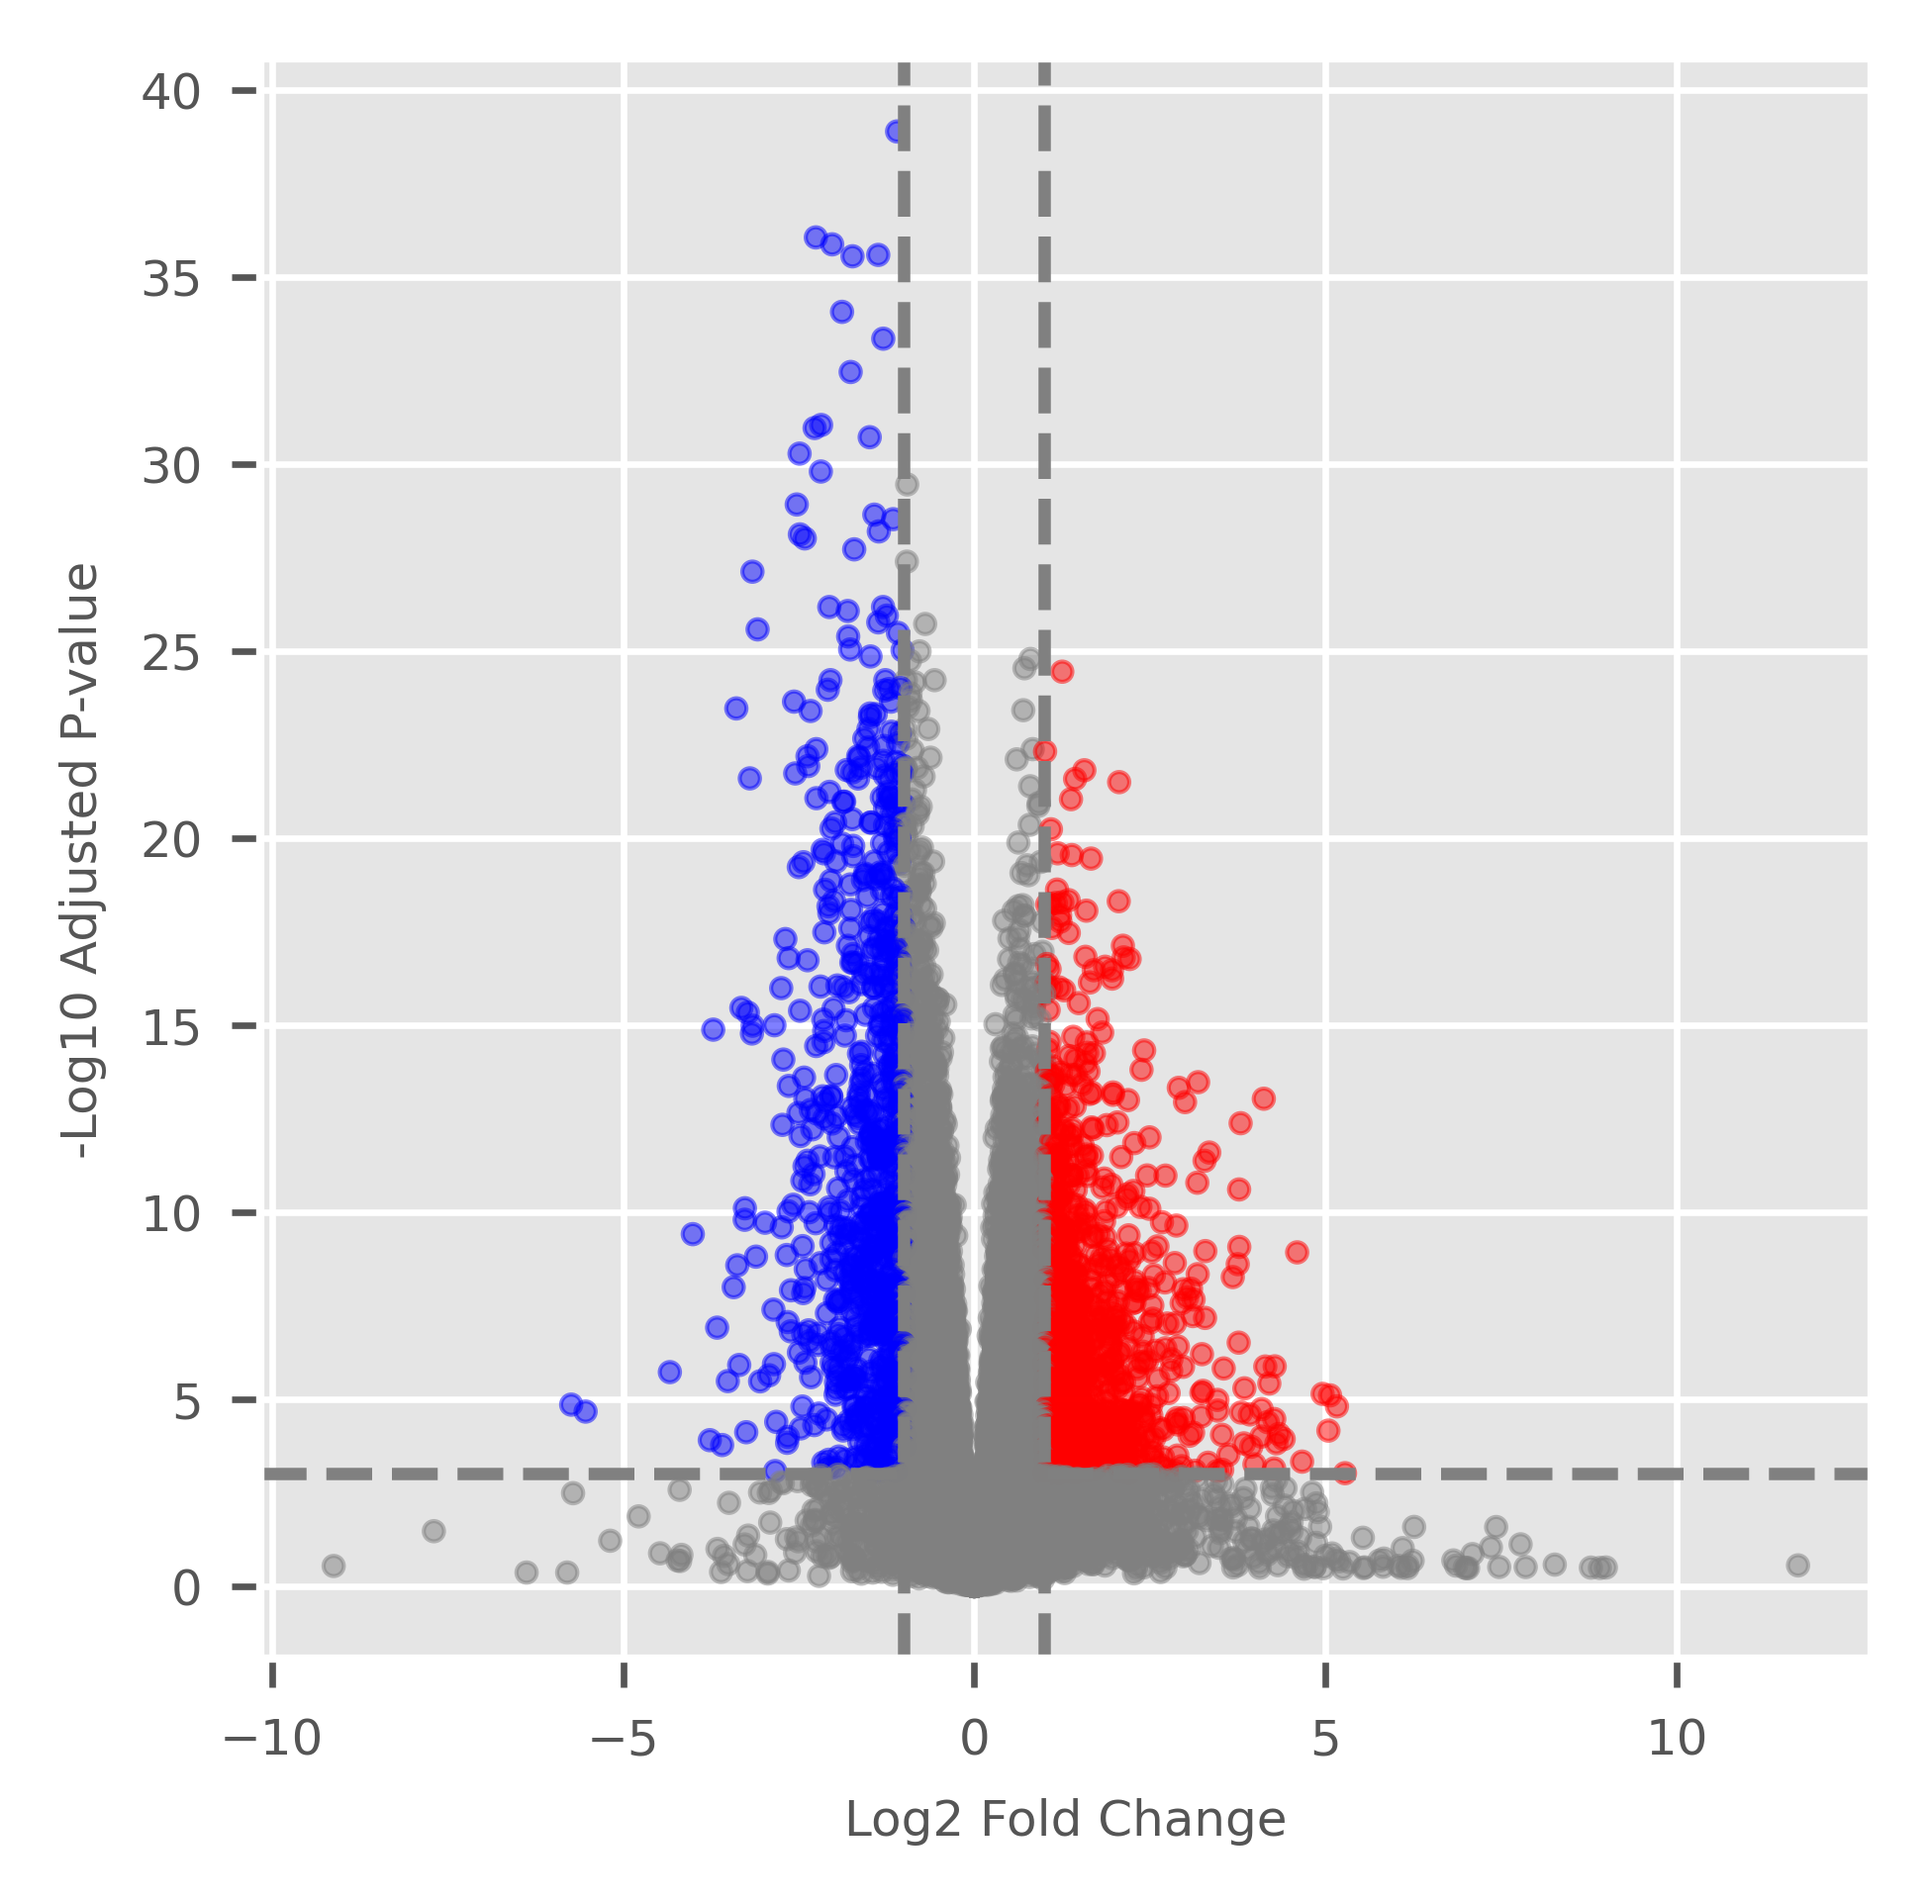
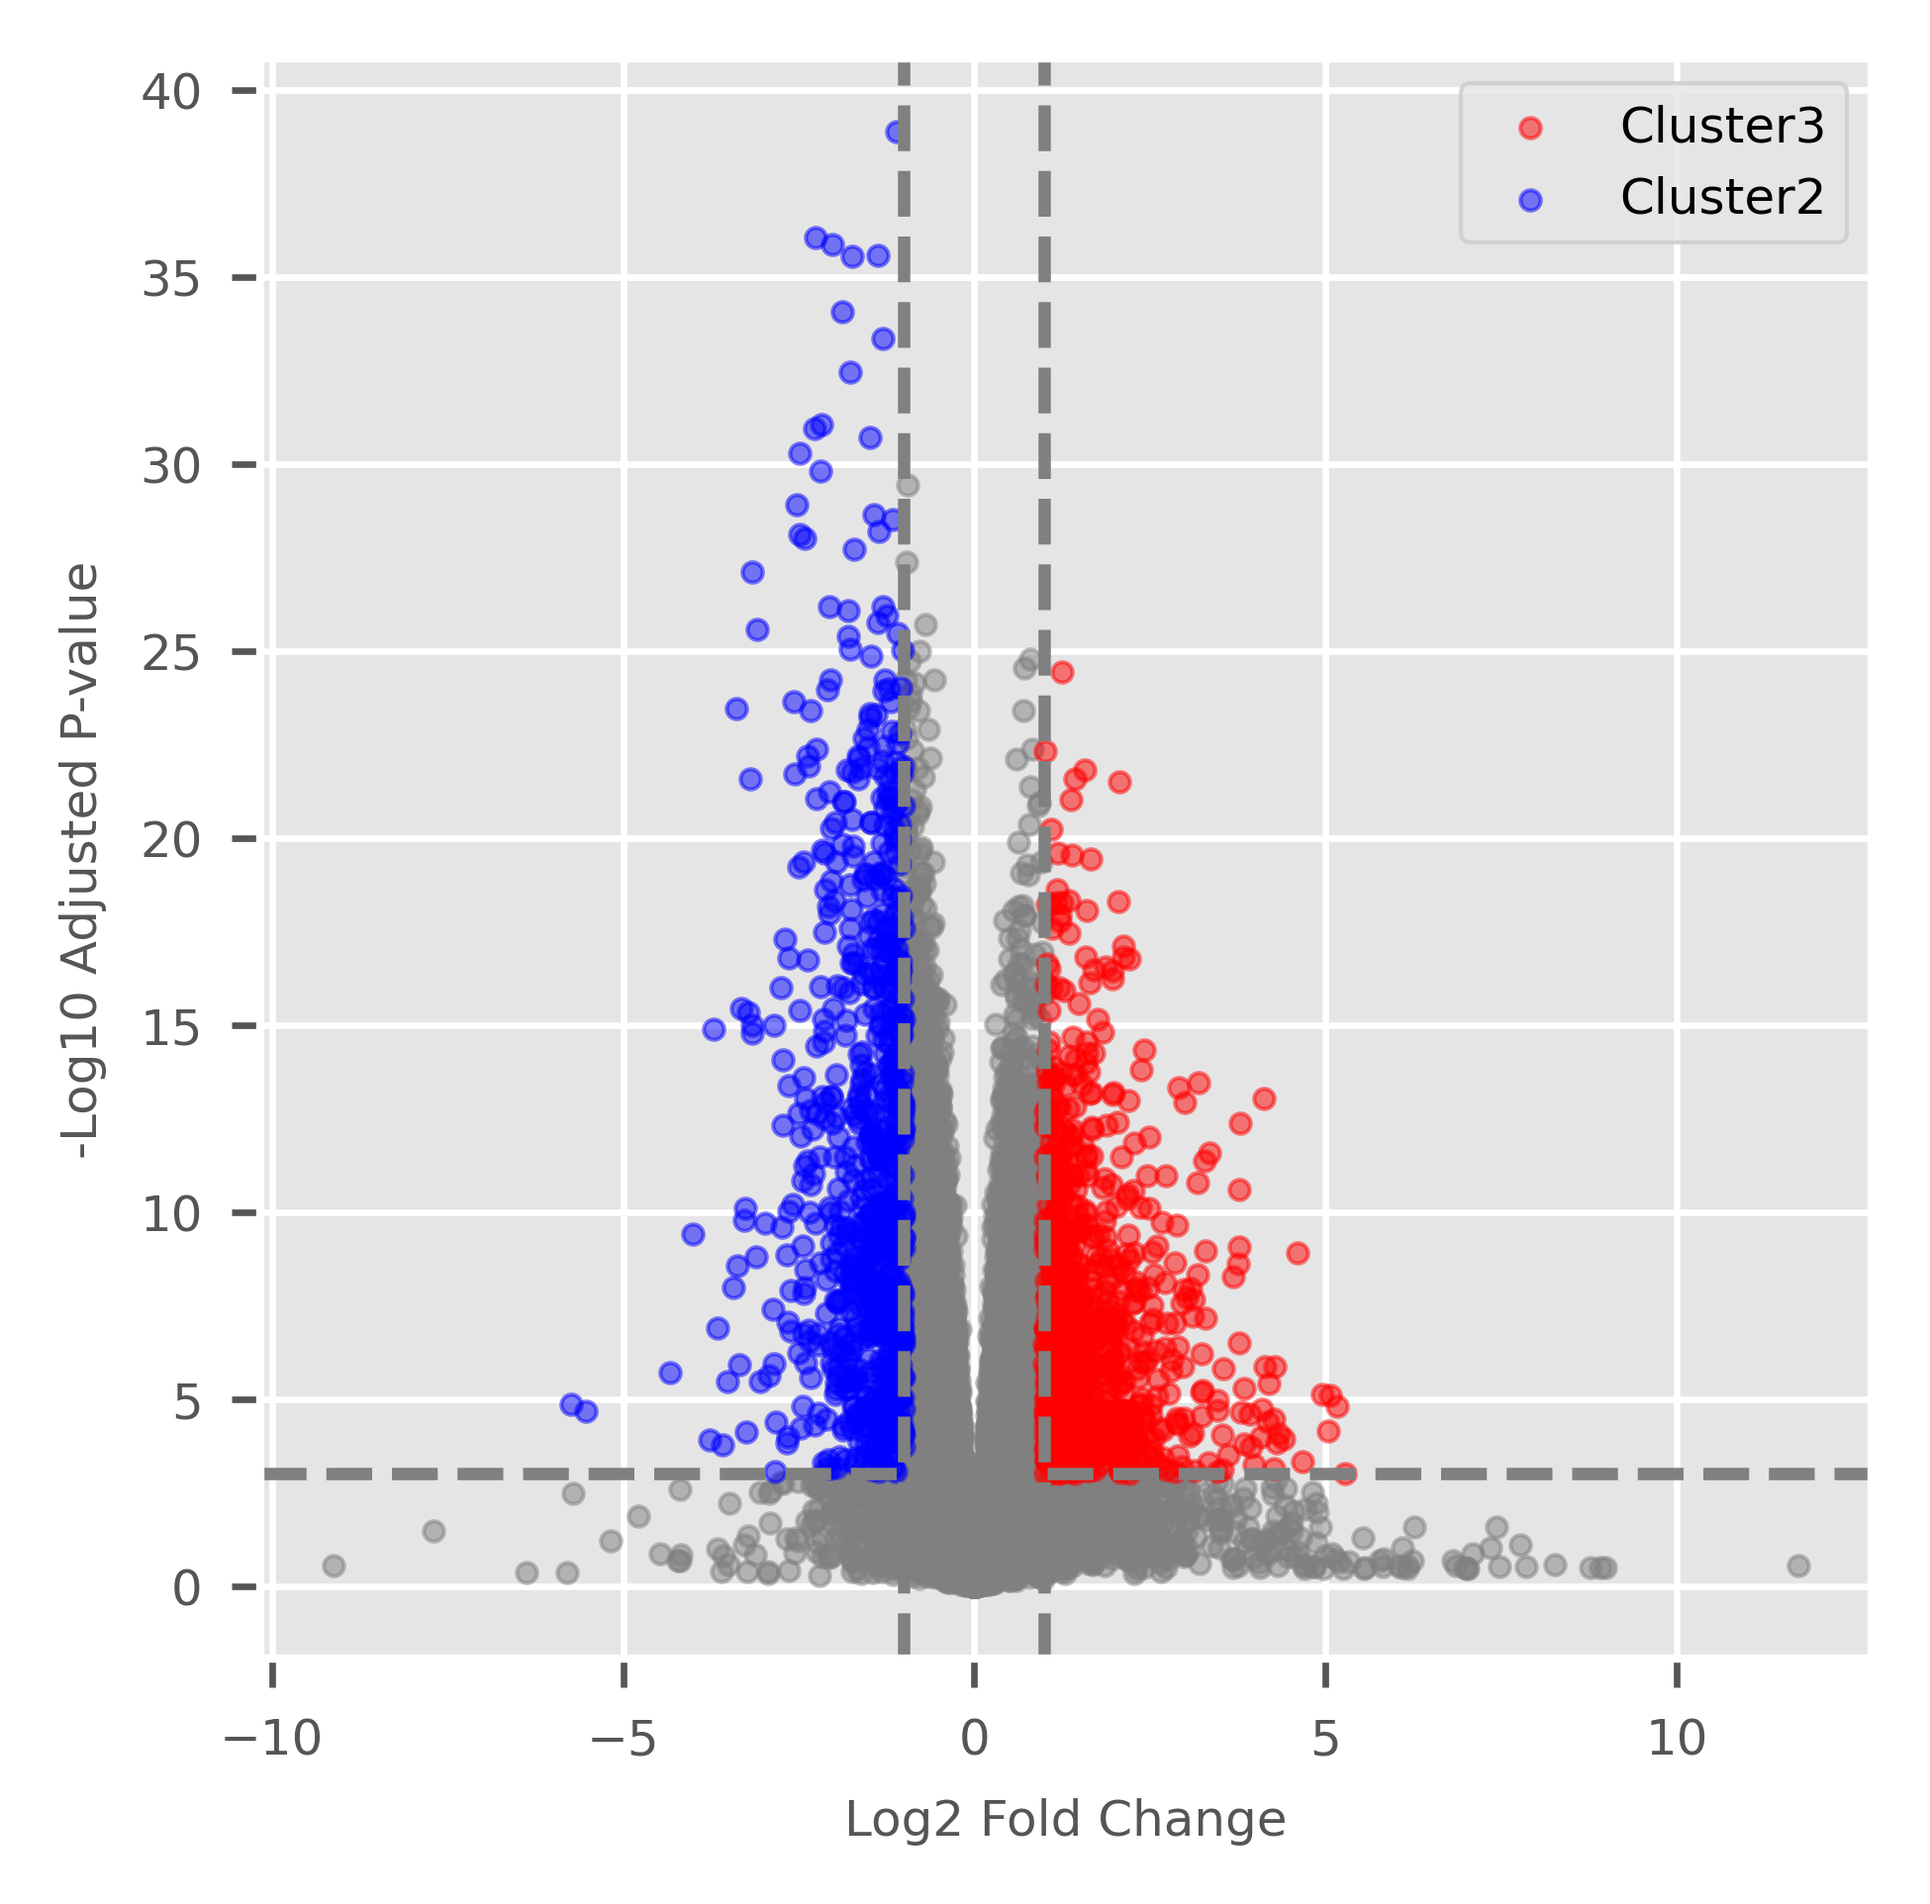
ssGSEA

diff --git a/DEA.py b/DEA.py
@@ -7,12 +7,6 @@ deg_multiple_test_correction = 'fdr_bh'
 deg_log2_fc_threshold = 1
 deg_p_value_threshold = 0.001
 
-count_plot_generate = False
-count_plot_format = 'png'
-count_plot_size = (3.5, 3.5)
-count_plot_dpi = 600
-count_plot_fontsize = 6
-
 volcano_plot_format = 'png'
 volcano_plot_size = (3.5, 3.5)
 volcano_plot_dpi = 600
@@ -39,7 +33,9 @@ heatmap_dpi = 600
 heatmap_color = 'seismic'
 heatmap_fontsize = 6
 heatmap_gene_metric = 'correlation'
+heatmap_case_metric = 'seuclidean'
 heatmap_gene_method = 'ward'
+heatmap_case_method = 'ward'
 
 # -------------------------
 
@@ -56,49 +52,6 @@ from scipy.spatial.distance import pdist
 from sklearn.preprocessing import StandardScaler
 from matplotlib.patches import Rectangle
 
-def generate_count_plot(metadata, group_column, group1, group2, output_dir):
-    print("[Count Plot] ...                 ", end='\r')
-
-    # Combined group
-    filtered_metadata = metadata[metadata[group_column].isin(group1 + group2)].copy()
-    filtered_metadata['Group'] = filtered_metadata[group_column].apply(
-        lambda x: '+'.join(group1) if x in group1 else '+'.join(group2)
-    )
-    
-    # Iterate group columns
-    for col in metadata.columns:
-        if col != group_column and col != 'Group':
-            unique_values = filtered_metadata[col].nunique()
-            if unique_values >=2 and unique_values <= 10:
-                # Chi-square test
-                contingency_table = pd.crosstab(filtered_metadata['Group'], filtered_metadata[col])
-                p_value = "None"
-                if (contingency_table > 0).all().all():
-                    chi2, p_value = stats.chi2_contingency(contingency_table)[:2]
-                    if p_value < 0.001:
-                        p_value = f'{p_value:.2e}'
-                    else:
-                        p_value = f'{p_value:.3f}'
-
-                # Count plot
-                plt.style.use('ggplot')
-                plt.figure(figsize=count_plot_size)
-                sns.countplot(data=filtered_metadata, x='Group', hue=col)
-
-                plt.xticks(fontsize=count_plot_fontsize)
-                plt.yticks(fontsize=count_plot_fontsize)
-                plt.xlabel('Group', fontsize=count_plot_fontsize)
-                plt.ylabel('Count', fontsize=count_plot_fontsize)
-                plt.legend(fontsize=count_plot_fontsize)
-
-                count_plot_file = os.path.join(output_dir, f'DEA_count_{"+".join(group1)}_vs_{"+".join(group2)}_{col}.' + count_plot_format)
-                plt.savefig(count_plot_file, format=count_plot_format, dpi=count_plot_dpi, bbox_inches='tight')
-                plt.close()
-
-                print(f"[Chi-Square] Group / {col}: {p_value}                 ")
-    
-    print("[Count Plot] Complete                 ")
-
 def generate_volcano_plot(results_df, group1, group2, output_dir, log2_fc_threshold, p_value_threshold):
     print("[Volcano Plot] ...                 ", end='\r')
 
@@ -110,7 +63,31 @@ def generate_volcano_plot(results_df, group1, group2, output_dir, log2_fc_thresh
     # Volcano plot
     plt.style.use('ggplot')
     plt.figure(figsize=volcano_plot_size)
-    plt.scatter(results_df['log2_fold_change'], -np.log10(results_df['adjusted_pvalue']), c=results_df['color'], alpha=volcano_plot_dotalpha, s=volcano_plot_dotsize)
+    
+    # Non-significant points
+    mask = results_df['color'] == volcano_plot_other_color
+    plt.scatter(
+        results_df.loc[mask, 'log2_fold_change'],
+        -np.log10(results_df.loc[mask, 'adjusted_pvalue']),
+        c=volcano_plot_other_color,
+        alpha=volcano_plot_dotalpha,
+        s=volcano_plot_dotsize
+    )
+    
+    # Significant points
+    for color, label in [
+        (volcano_plot_up_color, "+".join(group2)),
+        (volcano_plot_down_color, "+".join(group1))
+    ]:
+        mask = results_df['color'] == color
+        plt.scatter(
+            results_df.loc[mask, 'log2_fold_change'],
+            -np.log10(results_df.loc[mask, 'adjusted_pvalue']),
+            c=color,
+            alpha=volcano_plot_dotalpha,
+            s=volcano_plot_dotsize,
+            label=label
+        )
     
     if volcano_plot_line == True:
         plt.axvline(x=log2_fc_threshold, color=volcano_plot_other_color, linestyle='--')
@@ -121,6 +98,7 @@ def generate_volcano_plot(results_df, group1, group2, output_dir, log2_fc_thresh
     plt.yticks(fontsize=volcano_plot_fontsize)
     plt.xlabel('Log2 Fold Change', fontsize=volcano_plot_fontsize)
     plt.ylabel('-Log10 Adjusted P-value', fontsize=volcano_plot_fontsize)
+    plt.legend(fontsize=volcano_plot_fontsize, loc='best')
     
     volcano_file = os.path.join(output_dir, f'DEA_volcano_{"+".join(group1)}_vs_{"+".join(group2)}.' + volcano_plot_format)
     plt.savefig(volcano_file, format=volcano_plot_format, dpi=volcano_plot_dpi, bbox_inches='tight')
@@ -209,8 +187,8 @@ def generate_heatmap(results_df, expression_data, metadata, group_column, group1
     for group in [group1, group2]:
         group_data = selected_gene_data[filtered_metadata[group_column].isin(group)]
         if len(group_data) > 1:
-            group_dist = pdist(group_data, metric='correlation')
-            group_linkage = hierarchy.linkage(group_dist, method='ward')
+            group_dist = pdist(group_data, metric=heatmap_case_metric)
+            group_linkage = hierarchy.linkage(group_dist, method=heatmap_case_method)
             group_order.extend(group_data.index[hierarchy.leaves_list(group_linkage)])
         else:
             group_order.extend(group_data.index)
@@ -372,10 +350,6 @@ def DEA(summarize_file, group_column, group1, group2):
     print(f"[Save Genes] Complete                 ")
 
     print("[Create Plots] ...", end='\r')
-
-    # Count plot
-    if count_plot_generate == True:
-        generate_count_plot(metadata, group_column, group1, group2, output_dir)
     
     # Volcano plot
     generate_volcano_plot(results_df, group1, group2, output_dir, log2_fc_threshold, p_value_threshold)

diff --git a/ssGSEA.py b/ssGSEA.py
@@ -1,0 +1,122 @@
+# -------------------------
+
+geneset_prefix_remove = 'HALLMARK_'
+geneset_combine_mode = 'add'
+ssGSEA_weight = 0.75
+
+# -------------------------
+
+import sys
+import os
+import pandas as pd
+import numpy as np
+
+def calculate_ssGSEA_score(expression_values, gene_set, weight=ssGSEA_weight):
+    gene_names = expression_values.index
+    n_rows = len(gene_names)
+    
+    # Sort the genes
+    gene_list = np.argsort(-expression_values.values, kind='stable')
+    
+    # Find matching genes 
+    gene_set2 = np.where(np.isin(gene_names, gene_set))[0]
+    
+    # Z values normalization
+    if weight == 0:
+        ranked_expression = np.ones(n_rows)
+    else:
+        x = expression_values[gene_list]
+        ranked_expression = (x - np.mean(x)) / np.std(x, ddof=1)
+    
+    # Calculate tag indicator
+    tag_indicator = np.sign(np.isin(gene_list, gene_set2).astype(int))
+    N = len(gene_list)
+    Nh = len(gene_set2)
+    Nm = N - Nh
+    ind = np.where(tag_indicator == 1)[0]
+    ranked_expression = np.abs(ranked_expression[ind]) ** weight 
+
+    # Calculate up and down
+    sum_ranked_expression = np.sum(ranked_expression)
+    up = ranked_expression / sum_ranked_expression
+    gaps = np.append(ind-1, N-1) - np.append(-1, ind)
+    down = gaps / Nm
+    
+    # Calculate running sum
+    RES = np.cumsum(np.append(up, up[Nh-1]) - down)
+    valleys = RES[:Nh] - up
+    
+    # Calculate final ES
+    gaps = gaps + 1
+    RES = np.append(valleys, 0) * gaps + 0.5 * (np.append(0, RES[:Nh]) - np.append(valleys, 0)) * gaps
+    ES = np.sum(RES)
+    
+    return ES
+
+def ssGSEA(summarize_file, gmt_file):
+    # Read data
+    print("[Read Data] ...", end='\r')
+    df = pd.read_csv(summarize_file, low_memory=False)
+    start_gene_index = df.columns.get_loc('START_GENE')
+    metadata = df.iloc[:, :start_gene_index + 1]
+    gene_data = df.iloc[:, start_gene_index + 1:]
+    print("[Read Data] Complete                 ")
+    
+    # Read gene sets
+    print("[Load GeneSets] ...", end='\r')
+    gene_sets = {}
+    with open(gmt_file, 'r') as f:
+        for line in f:
+            parts = line.strip().split()
+            gene_set_name = parts[0]
+            if gene_set_name.startswith(geneset_prefix_remove):
+                gene_set_name = gene_set_name[len(geneset_prefix_remove):]
+            genes = list(parts[2:])
+            gene_sets[gene_set_name] = genes
+    print(f"[Load GeneSets] {len(gene_sets)}                 ")
+    
+    # Calculate enrichment scores
+    print("[Perform ssGSEA] ...", end='\r')
+    enrichment_scores = pd.DataFrame(index=df.index, columns=gene_sets.keys())
+    
+    total_samples = len(df)
+    for idx, sample in enumerate(df.index, 1):
+        sample_expression = gene_data.loc[sample]
+        
+        for gene_set_name, gene_set in gene_sets.items():
+            score = calculate_ssGSEA_score(sample_expression, gene_set)
+            enrichment_scores.loc[sample, gene_set_name] = score
+            
+        print(f"[Perform ssGSEA] {idx}/{total_samples}", end='\r')
+    
+    print("[Perform ssGSEA] Complete                 ")
+
+    # Combine UP/DN
+    if geneset_combine_mode in ["add", "replace"]:
+        print("[Combine UP/DN] ...", end='\r')
+        dn_columns = [col for col in enrichment_scores.columns if col.endswith('_DN')]
+        for dn_col in dn_columns:
+            up_col = dn_col.replace('_DN', '_UP')
+            if up_col in enrichment_scores.columns:
+                base_name = dn_col.replace('_DN', '')
+                combined_score = enrichment_scores[up_col] - enrichment_scores[dn_col]
+                dn_idx = enrichment_scores.columns.get_loc(dn_col)
+                enrichment_scores.insert(dn_idx + 1, base_name, combined_score)
+                if geneset_combine_mode == "replace":
+                    enrichment_scores = enrichment_scores.drop(columns=[up_col, dn_col])
+                print(f"[Combine UP/DN] {base_name}                 ")
+
+    # Save results
+    print("[Save Results] ...", end='\r')
+    result = pd.concat([metadata, enrichment_scores], axis=1)
+    output_dir = os.path.dirname(summarize_file)
+    output_file = os.path.join(output_dir, 'summary_ssGSEA.csv')
+    result.to_csv(output_file, index=False)
+    print("[Save Results] Complete                 ")
+
+if __name__ == "__main__":
+    '''Command: python3 ssGSEA.py <cohort/summary.csv> <geneset.gmt>'''
+    summarize_file = sys.argv[1]
+    gmt_file = sys.argv[2]
+    
+    ssGSEA(summarize_file, gmt_file)

diff --git a/README.md b/README.md
@@ -248,6 +248,30 @@ Example:
 
 All the configuration such as figure size and format can be set in the head of `GSEA.py`.
 
+## Single Sample Gene Set Enrichment Analysis
+
+Start AMATERASU:
+
+```sh
+source .amaterasu/bin/activate
+cd AMATERASU/
+```
+
+Perform single sample gene set enrichment analysis on all samples based on the predefined gene set:
+```sh
+python3 ssGSEA.py <cohort/summary.csv> <geneset.gmt>
+```
+
+Enrichment scores between each pair of sample and gene set will be calculated and summarized as `cohort/summary_ssGSEA.csv`, which can be used in other analysis. Example of `cohort/summary_ssGSEA.csv`:
+
+| sample_id | ... | ADIPOGENESIS | ALLOGRAFT_REJECTION | ... |
+| :- | :- | :- | :- | :- |
+| TCGA_DD_AAVP | ... | 28463.1 | 24099.9 | ... |
+| TCGA_DD_A4NP | ... | 28476.4 | 22982.5 | ... |
+| TCGA_BC_4073 | ... | 28279.4 | 27140.9 | ... |
+
+All the configuration such as removing prefix and combine mode can be set in the head of `ssGSEA.py`.
+
 ## Survival Analysis
 
 Start AMATERASU:
@@ -284,6 +308,8 @@ If `[-all]` is specified, all genes will be analyzed and summarized as `<cohort/
 | YBX1 | 184.2 | 1 | 1.14e-05 | 0.00378 |
 
 All the configuration such as figure size and format can be set in the head of `survival.py`.
+
+
 
 ## Others
 
